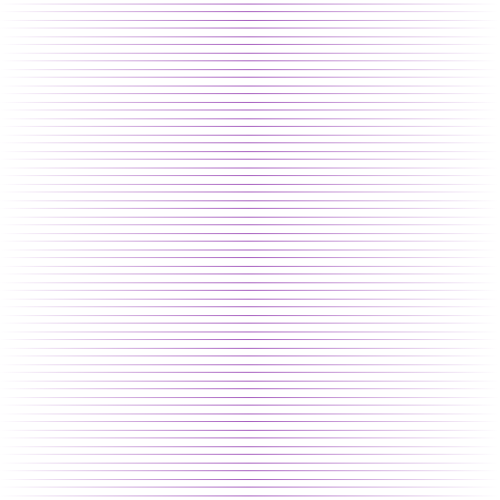
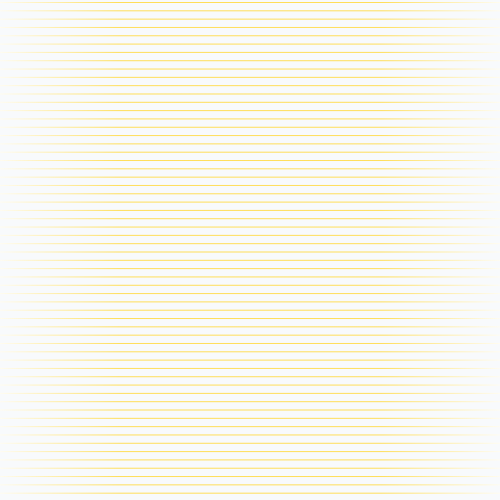
Added hero section image

Changed region(s): [[0.03, 0.0, 0.96, 1.0]]

diff --git a/src/components/OurPartners/OurPartners.jsx b/src/components/OurPartners/OurPartners.jsx
@@ -1,6 +1,5 @@
 import React from "react";
-import { CiSquarePlus } from "react-icons/ci";
-import { FaAmazon, FaGoogle, FaSlack, FaYoutube } from "react-icons/fa6";
+import { FaAmazon, FaGoogle, FaRegSquarePlus, FaSlack, FaYoutube } from "react-icons/fa6";
 const OurPartners = () => {
   return (
     <div className="w-full h-[60vh] bg-gray-200  rounded-xl flex items-center flex-col py-24">
@@ -16,23 +15,23 @@ const OurPartners = () => {
         adipisicing eiusmod ex nulla laboris cupidatat. Duis consequat cillum
       </p>
       <button className=" mt-4 flex items-center py-3 px-6 rounded-full gap-x-3 font-semibold text-gray-50  bg-yellow-400">
-        <CiSquarePlus size={20} /> More About Us
+        <FaRegSquarePlus size={20}/> More About Us
       </button>
       <div className="flex items-center gap-x-4 mt-8">
         <div className="flex items-center gap-x-2">
-          <FaGoogle size={40}/>
+          <FaGoogle size={40} />
           <span className="text-2xl font-semibold">Google</span>
         </div>
         <div className="flex items-center gap-x-2">
-          <FaAmazon size={40}/>
+          <FaAmazon size={40} />
           <span className="text-2xl font-semibold">Amazon</span>
         </div>
         <div className="flex items-center gap-x-2">
-          <FaYoutube size={40}/>
+          <FaYoutube size={40} />
           <span className="text-2xl font-semibold">Youtube</span>
         </div>
         <div className="flex items-center gap-x-2">
-          <FaSlack size={40}/>
+          <FaSlack size={40} />
           <span className="text-2xl font-semibold">Slack</span>
         </div>
       </div>

diff --git a/src/components/HomeHero/herostyles.css b/src/components/HomeHero/herostyles.css
@@ -1,13 +1,13 @@
 .hero-image{
-    background: url("../../assets/pattern1.png");
+    background: url("../../assets/pattern2.png");
     background-position: center;
     background-size: cover;
     background-repeat: no-repeat;
     height: 100%;
-
+    
 }
 .hero-text{
-    background: url("../../assets/pattern2.png");
+    background: url("../../assets/pattern1.png");
     background-position: center;
     background-size: cover;
     background-repeat: no-repeat;

diff --git a/src/components/HomeHero/HeroImage/HeroImage.jsx b/src/components/HomeHero/HeroImage/HeroImage.jsx
@@ -1,9 +1,10 @@
 import React from 'react'
 import "../herostyles.css"
+import pattern1bg from "../../../assets/pattern1bg.png"
 const HeroImage = () => {
   return (
-    <div className="hero-image flex w-full flex-1 ">
-      
+    <div className="hero-image flex w-full flex-1 justify-end ">
+      <img src={pattern1bg}/>
     </div>
   )
 }

diff --git a/src/components/HomeHero/HomeHero.jsx b/src/components/HomeHero/HomeHero.jsx
@@ -5,8 +5,8 @@ const HomeHero = () => {
   return (
     
         <div className="flex h-[calc(70vh+4rem)] flex-col lg:flex-row">
-        <HeroImage />
         <HeroText />
+        <HeroImage />
     </div>
       
   );
